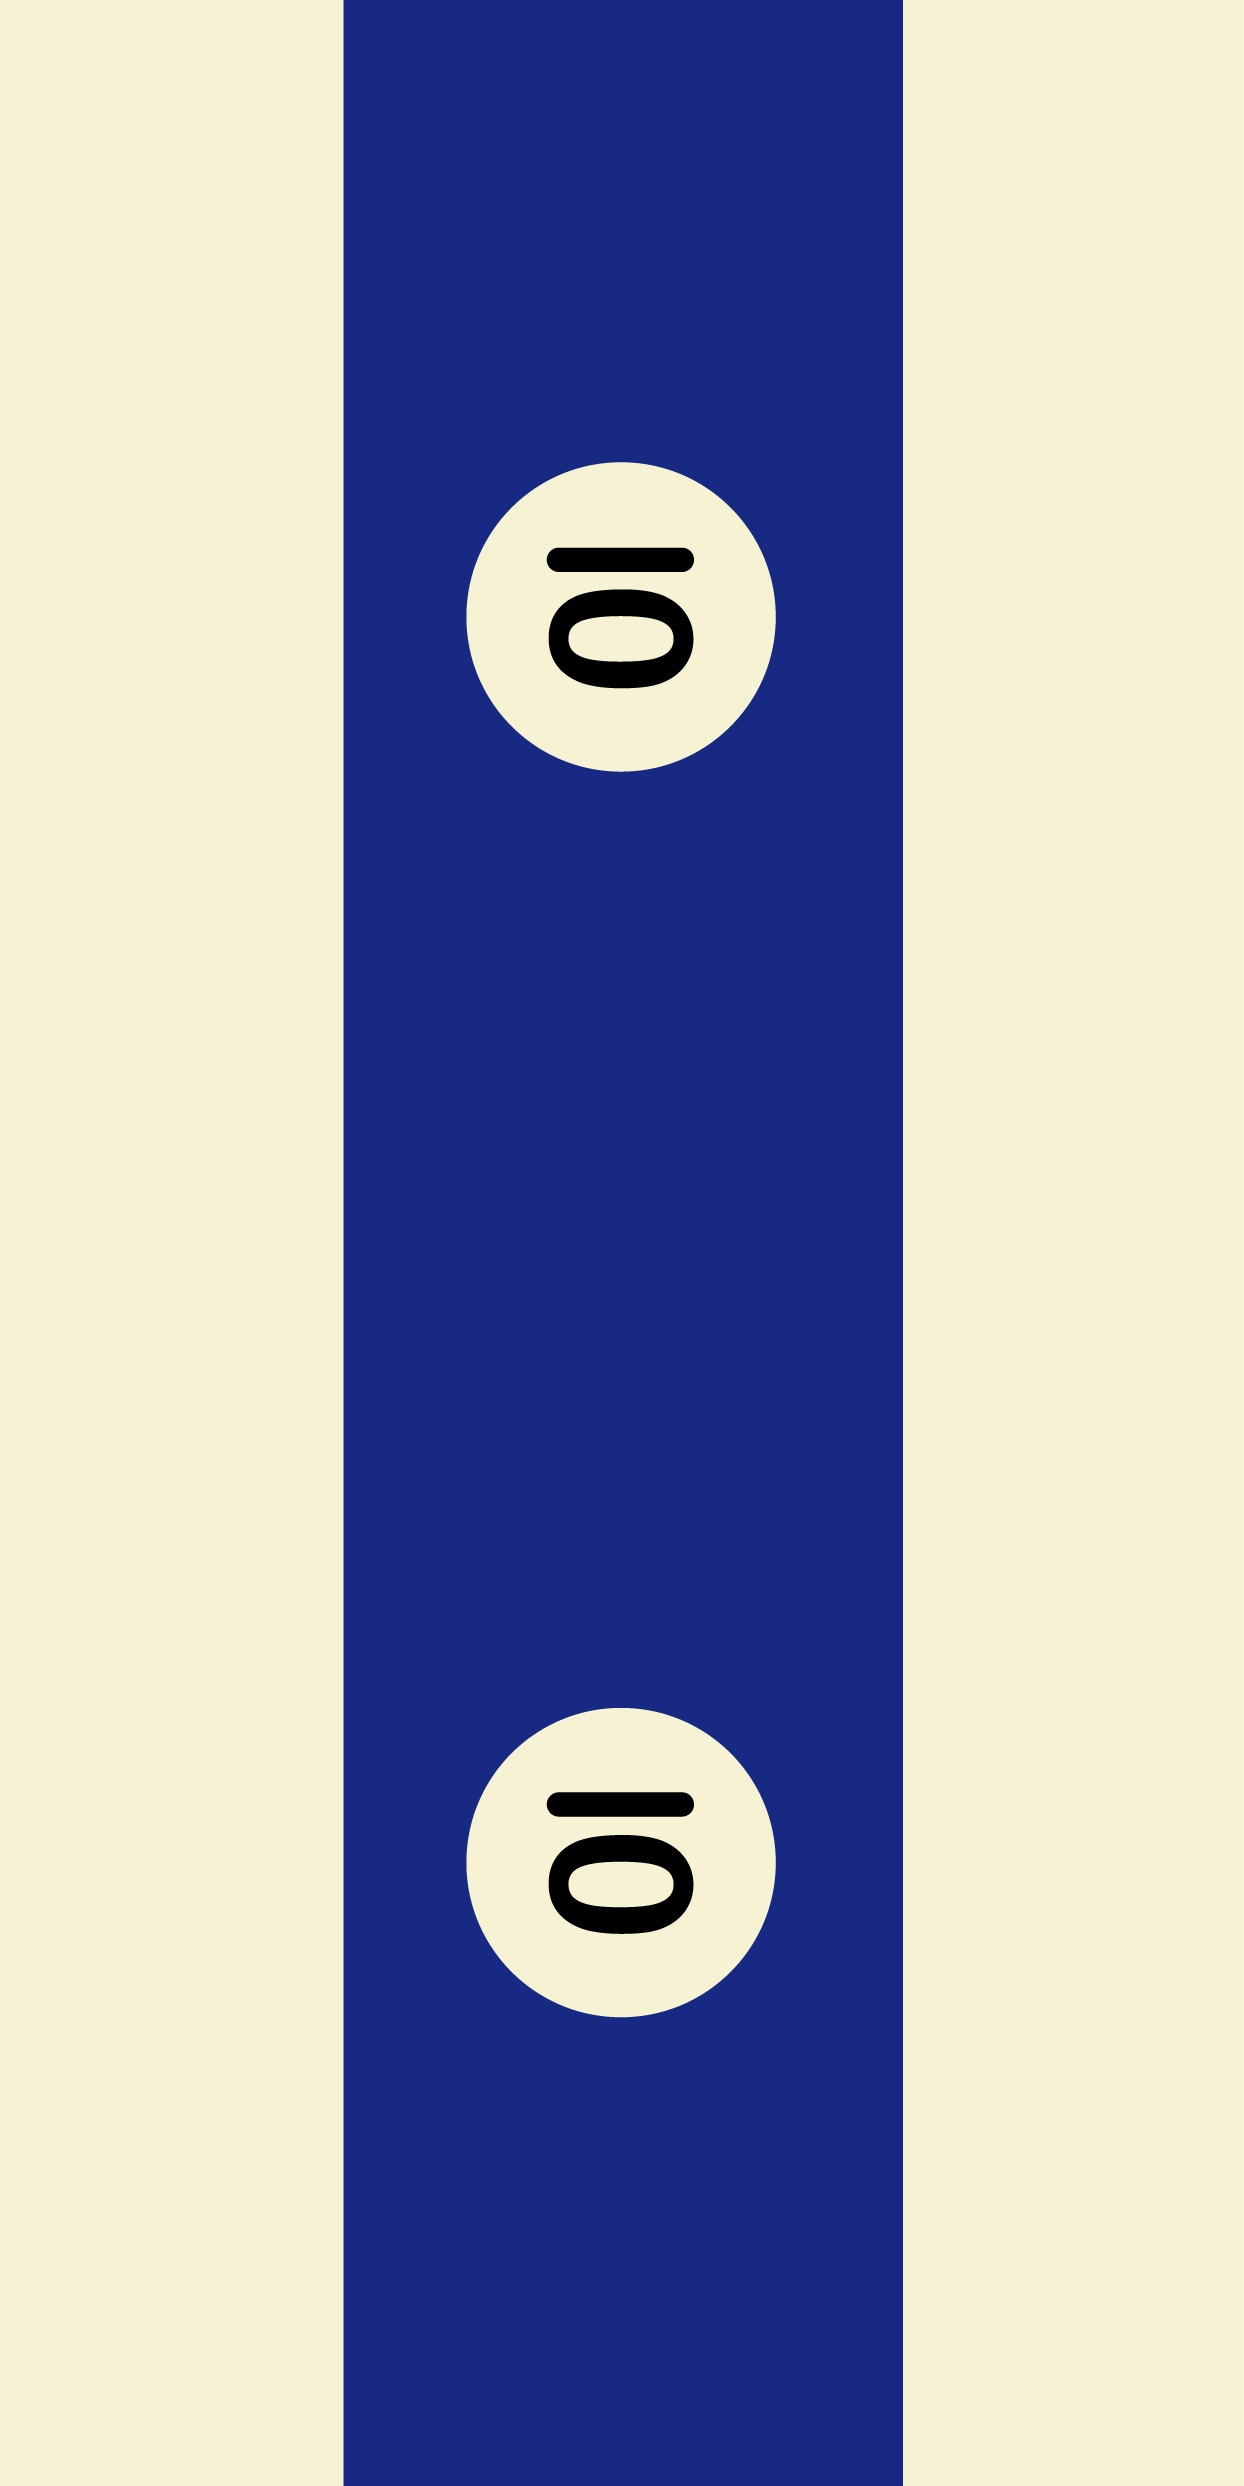
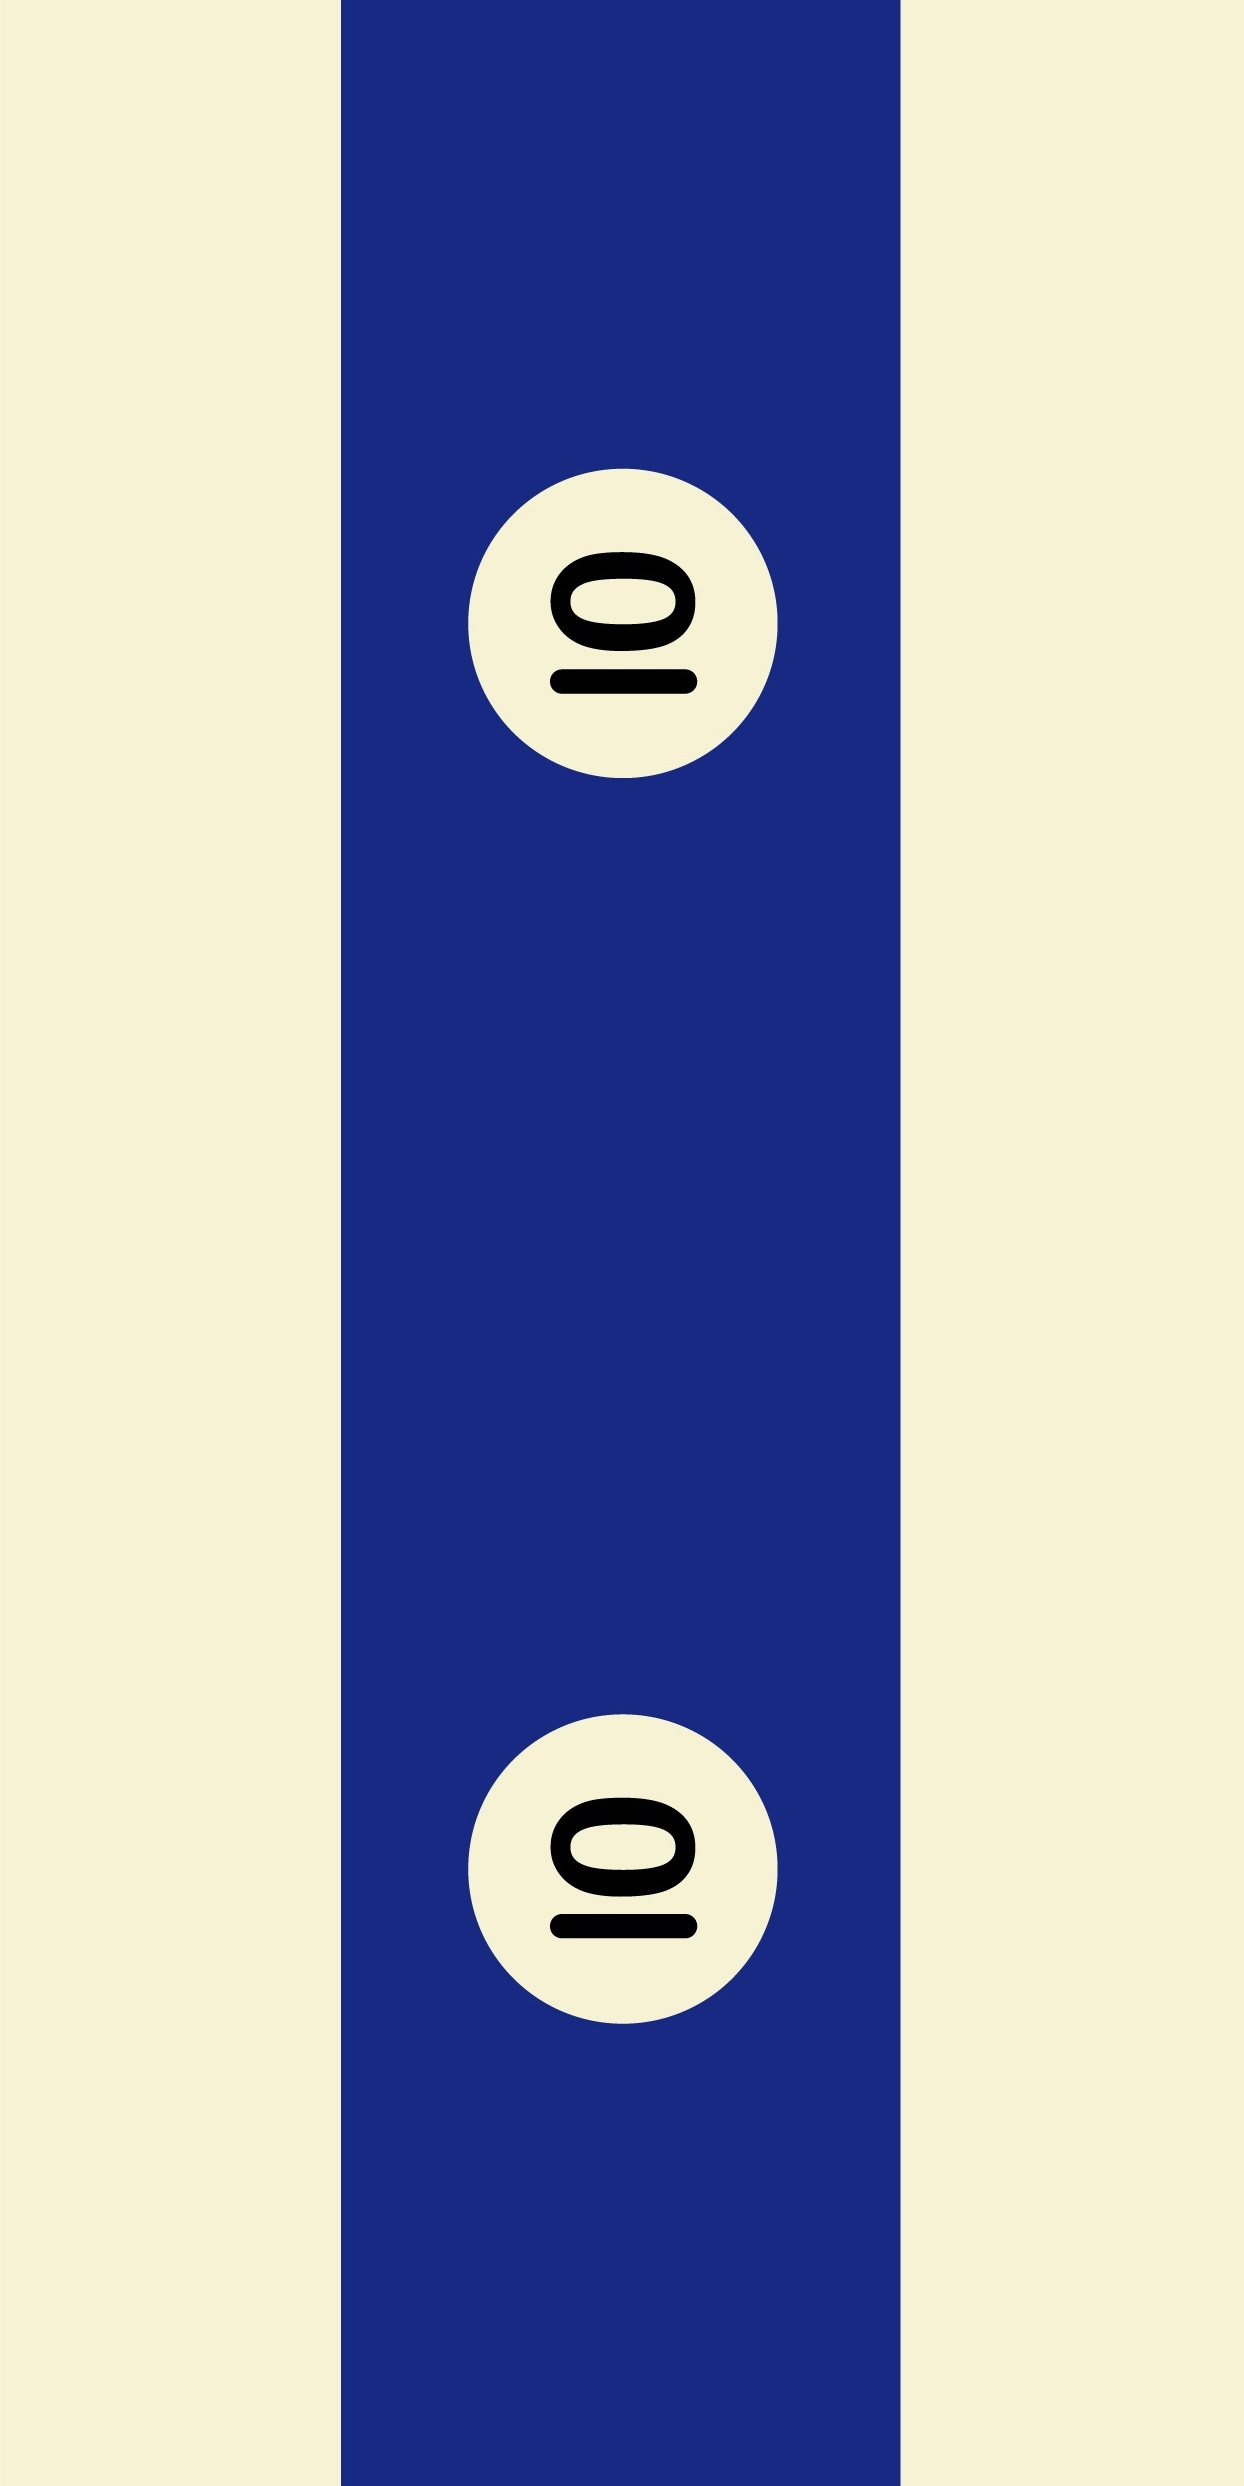
Fix textura bola 10. Rotacion bolas.

diff --git a/main.cpp b/main.cpp
@@ -8,7 +8,10 @@
 #include <math.h>
 #include <vector>
 #include <chrono>
+#include <ctime>
 #include <fstream>
+#include <unistd.h>
+#include <thread>
 #include <algorithm>
 #define _USE_MATH_DEFINES
 #define FPS 60
@@ -109,7 +112,7 @@ void drawBalls(vector<Ball*> balls, GLuint* textures){
     int i = 0;
     for (std::vector<Ball*>::iterator it = balls.begin() ; it != balls.end(); ++it){
         if (i == 0)
-            (*it)->draw(50,50,-1);
+            (*it)->draw(50,50,textures[10]);
         else
             (*it)->draw(50,50, textures[i - 1]);
         i++;
@@ -302,22 +305,29 @@ int main(int argc, char *argv[]) {
     float hBorder = h/4;
     // -----------------------------------
 
-    auto lastFrameTime = std::chrono::system_clock::now();
+    auto lastFrameTime = clock();
     bool fin=false;
     SDL_Event evento;
     vector<Ball*> balls = initializeBalls(ballRad, ballSeparation);
-    balls[0]->setVelocity(7,0,7);
-
+    balls[0]->setVelocity(7,0,10);
     do{
+
+
+        auto currentTime = clock();
+        float frameTime = (float)(currentTime - lastFrameTime);
+        lastFrameTime = clock();
+
+
+
         glClear(GL_COLOR_BUFFER_BIT | GL_DEPTH_BUFFER_BIT);
         glLoadIdentity();
         gluLookAt(x,y,-z,0,0,0,0,1,0);
 
+
         drawTable(lTop, wTop, lBottom, wBottom, h, wBorder, hBorder);
-        moveBalls(balls, 1, lTop, wTop, wBorder);
-
-
+        moveBalls(balls, frameTime/40, lTop, wTop, wBorder);
         drawBalls(balls, textures);
+
 
 
         int xm,ym;
@@ -391,7 +401,14 @@ int main(int argc, char *argv[]) {
             }
         }
         SDL_GL_SwapBuffers();
-        lastFrameTime = std::chrono::system_clock::now();
+
+        // Force 60fps
+        currentTime = clock();
+        frameTime = (float)(currentTime - lastFrameTime);
+        if (frameTime < 17)
+            std::this_thread::sleep_for(std::chrono::milliseconds((int)(17- frameTime)));
+
+
     }while(!fin);
     return 0;
 }

diff --git a/src/Ball.cpp b/src/Ball.cpp
@@ -13,6 +13,10 @@ Ball::Ball(float x, float y, float z, float rad, Color* color){
     this->velX = 0;
     this->velY = 0;
     this->velZ = 0;
+    this->rotX = 0;
+    this->rotY = 0;
+    this->rotZ = 0;
+    this->rotAng = 0;
     this->color = color;
 }
 
@@ -41,7 +45,7 @@ void Ball::setVelocity(float x, float y, float z){
 
 void Ball::updatePosAndVel(float time, float lTop, float wTop, float wBorder){
 
-    float velDecrease = time / 100;
+    float velDecrease = time / 20;
     float posFactor = time / 100;
 
     // Ball is against a border
@@ -50,10 +54,25 @@ void Ball::updatePosAndVel(float time, float lTop, float wTop, float wBorder){
     if (posZ >= wTop/2 - rad - wBorder || posZ <= -wTop/2 + rad + wBorder)
         velZ = -velZ;
 
+    float diffX = posX;
+    float diffZ = posZ;
+    float circumference = 2 * M_PI * rad;
+
     posX += velX * posFactor;
     posZ += velZ * posFactor;
 
 
+    diffX = posX - diffX;
+    diffZ = posZ - diffZ;
+    float distanceMoved = sqrt(pow(diffX,2) + pow(diffZ,2));
+
+    if(velX != 0 || velY != 0 || velZ != 0){
+        rotX = velZ;
+        rotY = 0;
+        rotZ = -velX;
+
+        rotAng += distanceMoved / circumference * 180;
+    }
 
     if (velDecrease > 0){
 
@@ -109,8 +128,10 @@ void Ball::draw(float lats, float longs, GLuint textura) {
         glPushMatrix();
 
         glTranslatef(posX, posY, posZ);
+        glRotatef(rotAng, rotX, rotY, rotZ); // Ball rotation when it moves
         glRotatef(90,0,1,0); // To fix texture position
         glRotatef(-90,1,0,0); // To fix texture position
+
         glBegin(GL_QUAD_STRIP);
         glColor3ub( color->getR(), color->getG(), color->getB());
 

diff --git a/include/Ball.h b/include/Ball.h
@@ -13,6 +13,10 @@ class Ball{
         float velX;
         float velY;
         float velZ;
+        float rotX;
+        float rotY;
+        float rotZ;
+        float rotAng;
         float rad;
         Color* color;
     public:
